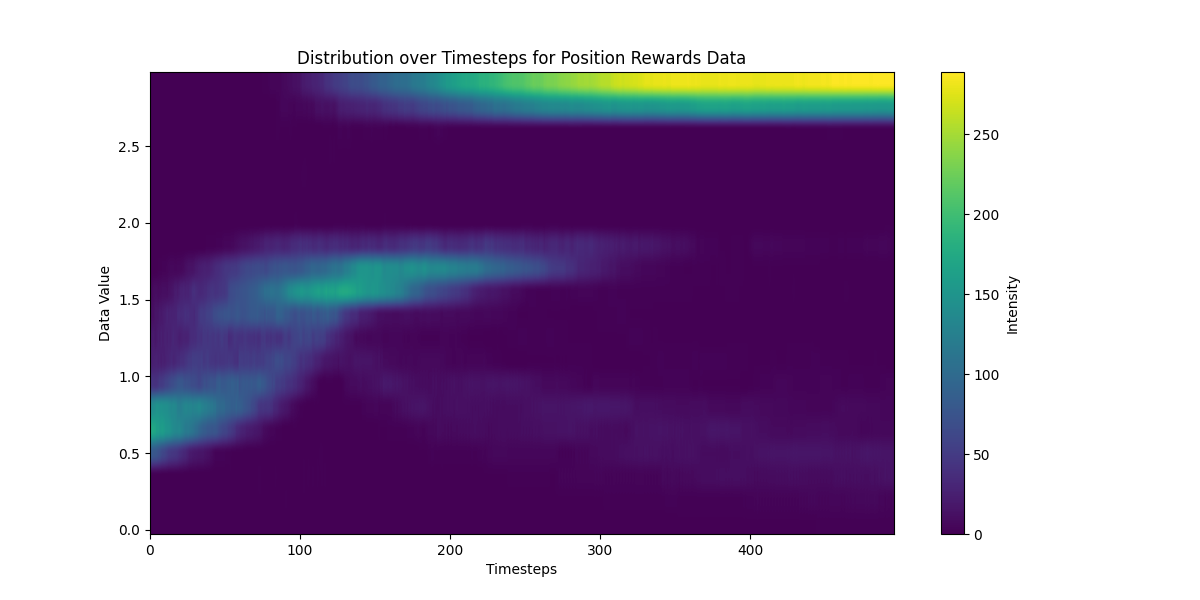
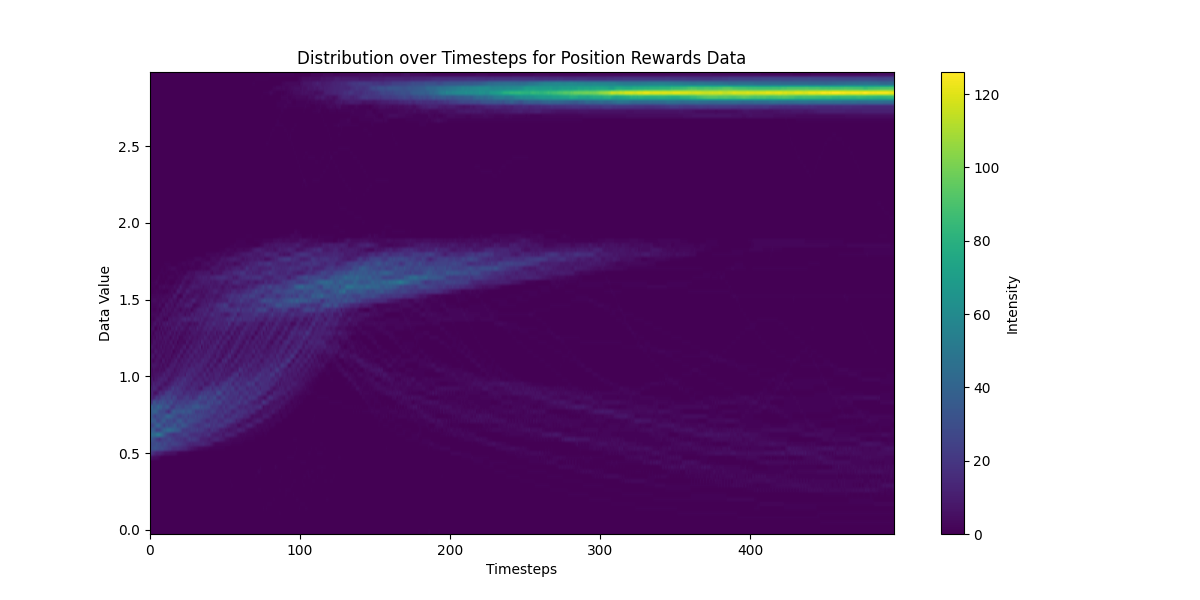
new figs captured

diff --git a/eps_graph.py b/eps_graph.py
@@ -41,7 +41,7 @@ def plot_distribution(distribution, zones, direction, ylabel='Data Value'):
     plt.title(f'Distribution over Timesteps for {direction} Data')
     plt.savefig(f"{direction}_distribution.png")
 
-def calculate_distribution(data, num_zones):
+def calculate_distribution(data, num_zones=100):
     min_val = np.min(data)
     max_val = np.max(data)
     zones = np.linspace(min_val, max_val, num_zones + 1)
@@ -94,25 +94,25 @@ gripper_angular_velocities_magnitudes = np.linalg.norm(gripper_angular_velocitie
 gripper_angular_velocities = np.expand_dims(gripper_angular_velocities_magnitudes, axis=2)
 
 
-distribution, zones = calculate_distribution(position_rewards, num_zones=20)
+distribution, zones = calculate_distribution(position_rewards)
 plot_distribution(distribution, zones, 'Position Rewards')
 
-distribution, zones = calculate_distribution(closest_points, num_zones=20)
+distribution, zones = calculate_distribution(closest_points)
 plot_distribution(distribution, zones, 'Closest Points', ylabel='meter')
 
-distribution, zones = calculate_distribution(position_actions, num_zones=20)
+distribution, zones = calculate_distribution(position_actions)
 plot_distribution(distribution, zones, 'Position Actions')
 
-distribution, zones = calculate_distribution(orientation_actions, num_zones=10)
+distribution, zones = calculate_distribution(orientation_actions)
 plot_distribution(distribution, zones, 'Orientation Actions')
 
-distribution, zones = calculate_distribution(gripper_linear_velocities, num_zones=20)
+distribution, zones = calculate_distribution(gripper_linear_velocities)
 plot_distribution(distribution, zones, 'Gripper Linear Velocities', ylabel='meter/second')
 
-distribution, zones = calculate_distribution(quaternion_differences, num_zones=20)
+distribution, zones = calculate_distribution(quaternion_differences)
 plot_distribution(distribution, zones, 'Quaternion Differences', ylabel='radians')
 
-distribution, zones = calculate_distribution(gripper_angular_velocities, num_zones=20)
+distribution, zones = calculate_distribution(gripper_angular_velocities)
 plot_distribution(distribution, zones, 'Gripper Angular Velocities', ylabel='radians/second')
 
 print("Plot created successfully!")
